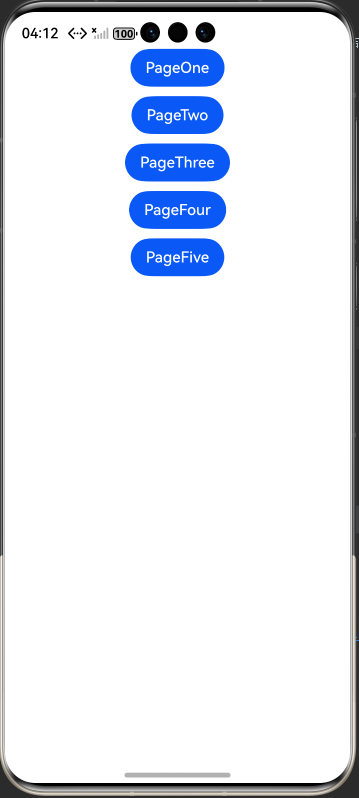
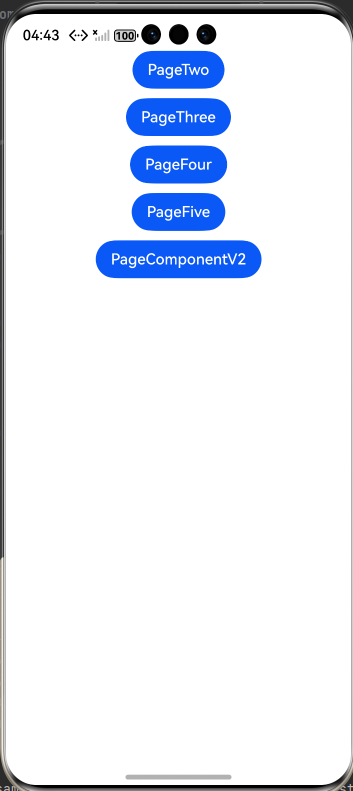
wrappbuilder AppStorage prop amend

Changed region(s): [[0.0, 0.0, 1.0, 1.0]]

diff --git a/code/DocsSample/ArkUISample/wrapbuilder/README.md b/code/DocsSample/ArkUISample/wrapbuilder/README.md
@@ -24,9 +24,9 @@
 [wrapBuilder：封装全局@Builder](https://gitcode.com/openharmony/docs/blob/master/zh-cn/application-dev/ui/state-management/arkts-wrapBuilder.md)。
 
 ## 效果预览
-| 首页                                              | CustomDialogController_CAPI页面                             |OpenCustomDialog_CAPI页面                                              |
-| ---------------------------------------------------- |---------------------------------------------------------| ------------------------------------------------------- |
-| <img src="./screenshots/PageIndex.png" width="300"/> | <img src="./screenshots/PageOne.png" width="300"/> | <img src="./screenshots/PageThree.png" width="300"/> |
+| 首页                                              |OpenCustomDialog_CAPI页面                                              |
+| ---------------------------------------------------- | ------------------------------------------------------- |
+| <img src="./screenshots/PageIndex.png" width="300"/> | <img src="./screenshots/PageThree.png" width="300"/> |
 
 
 ## 使用说明
@@ -51,7 +51,6 @@ wrapbuilder
     │   │       └── PageComponentV2.ets //示例：@ComponentV2装饰器：自定义组件
     │   │       ├── PageFive.ets  //示例5：重复定义wrapBuilder失效
     │   │       ├── PageFour.ets  //示例4：引用传递
-    │   │       ├── PageOne.ets   //示例1：wrapBuilder是一个模板函数，返回一个WrappedBuilder对象
     │   │       ├── PageThree.ets //示例3：@Builder方法赋值给变量在UI语法中使用
     │   │       └── PageTwo.ets   //示例2：@Builder方法赋值给变量
     │   ├── module.json5
